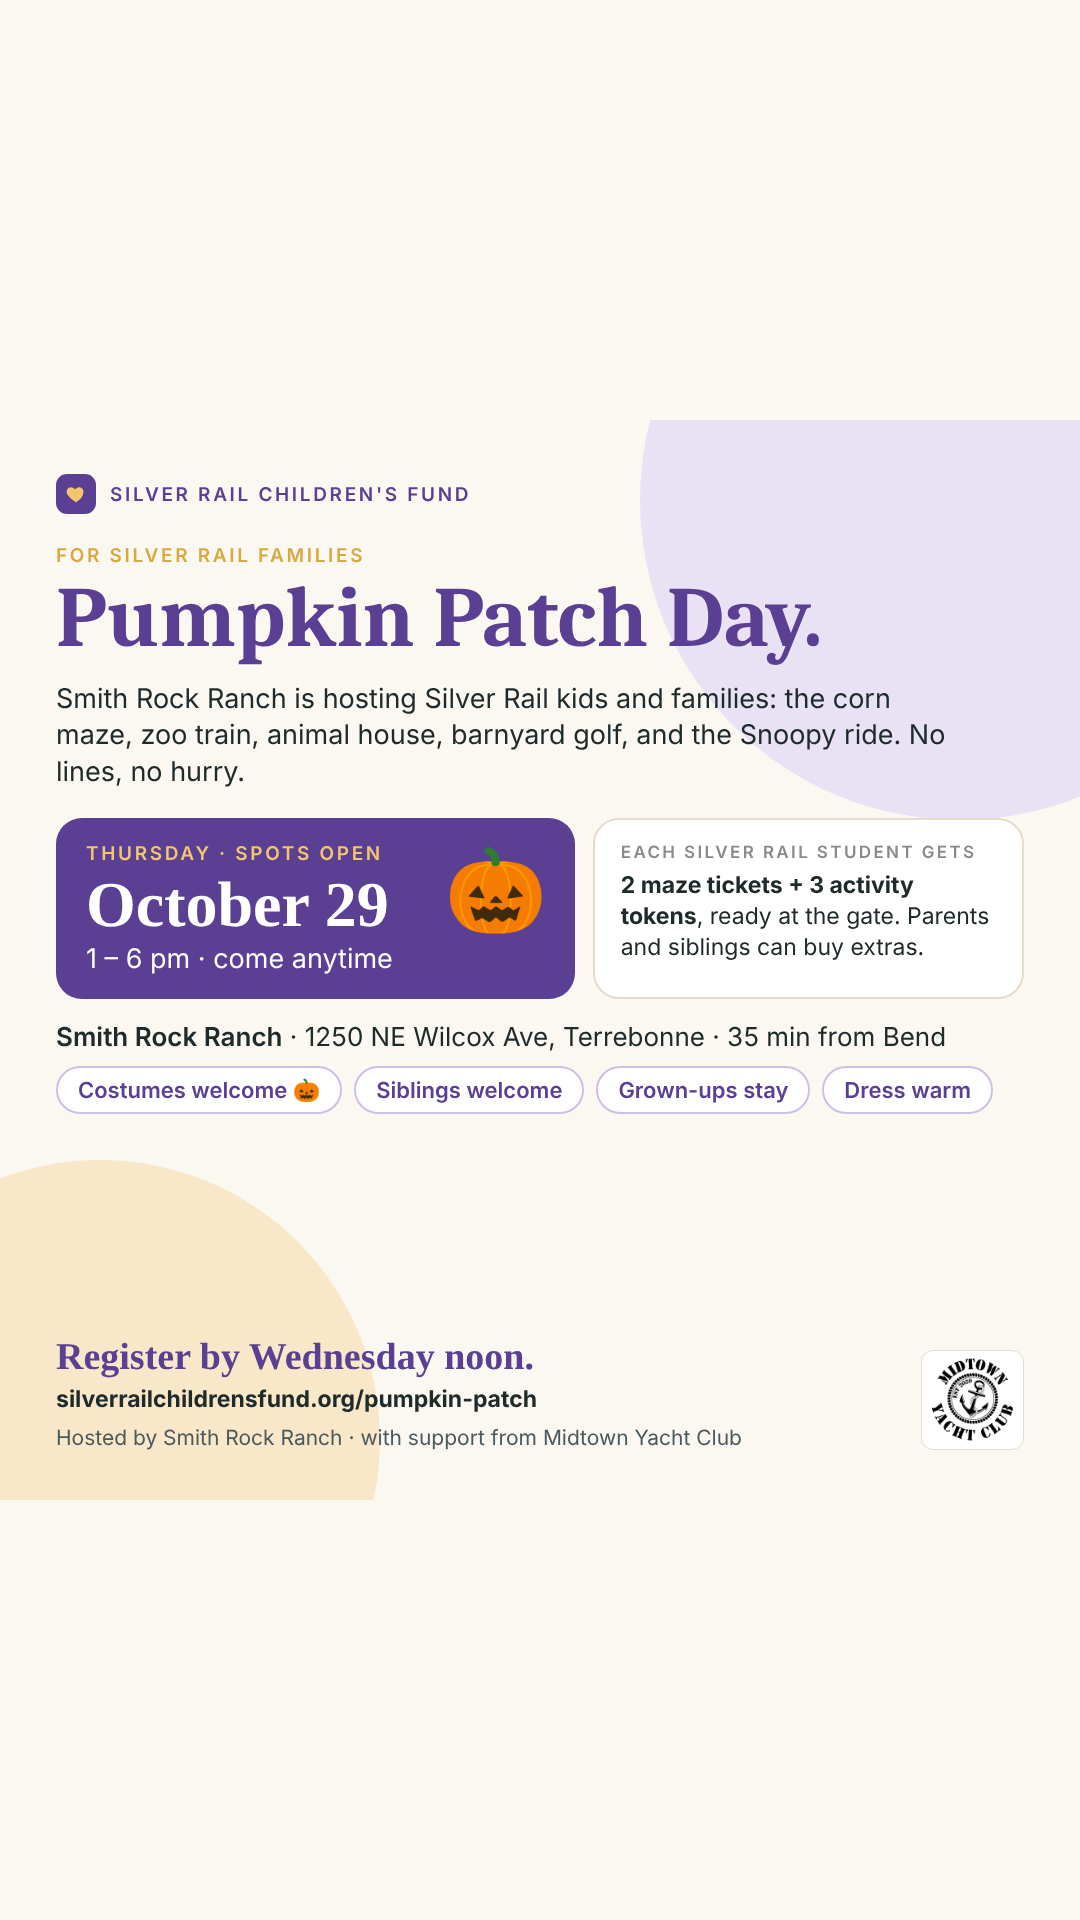
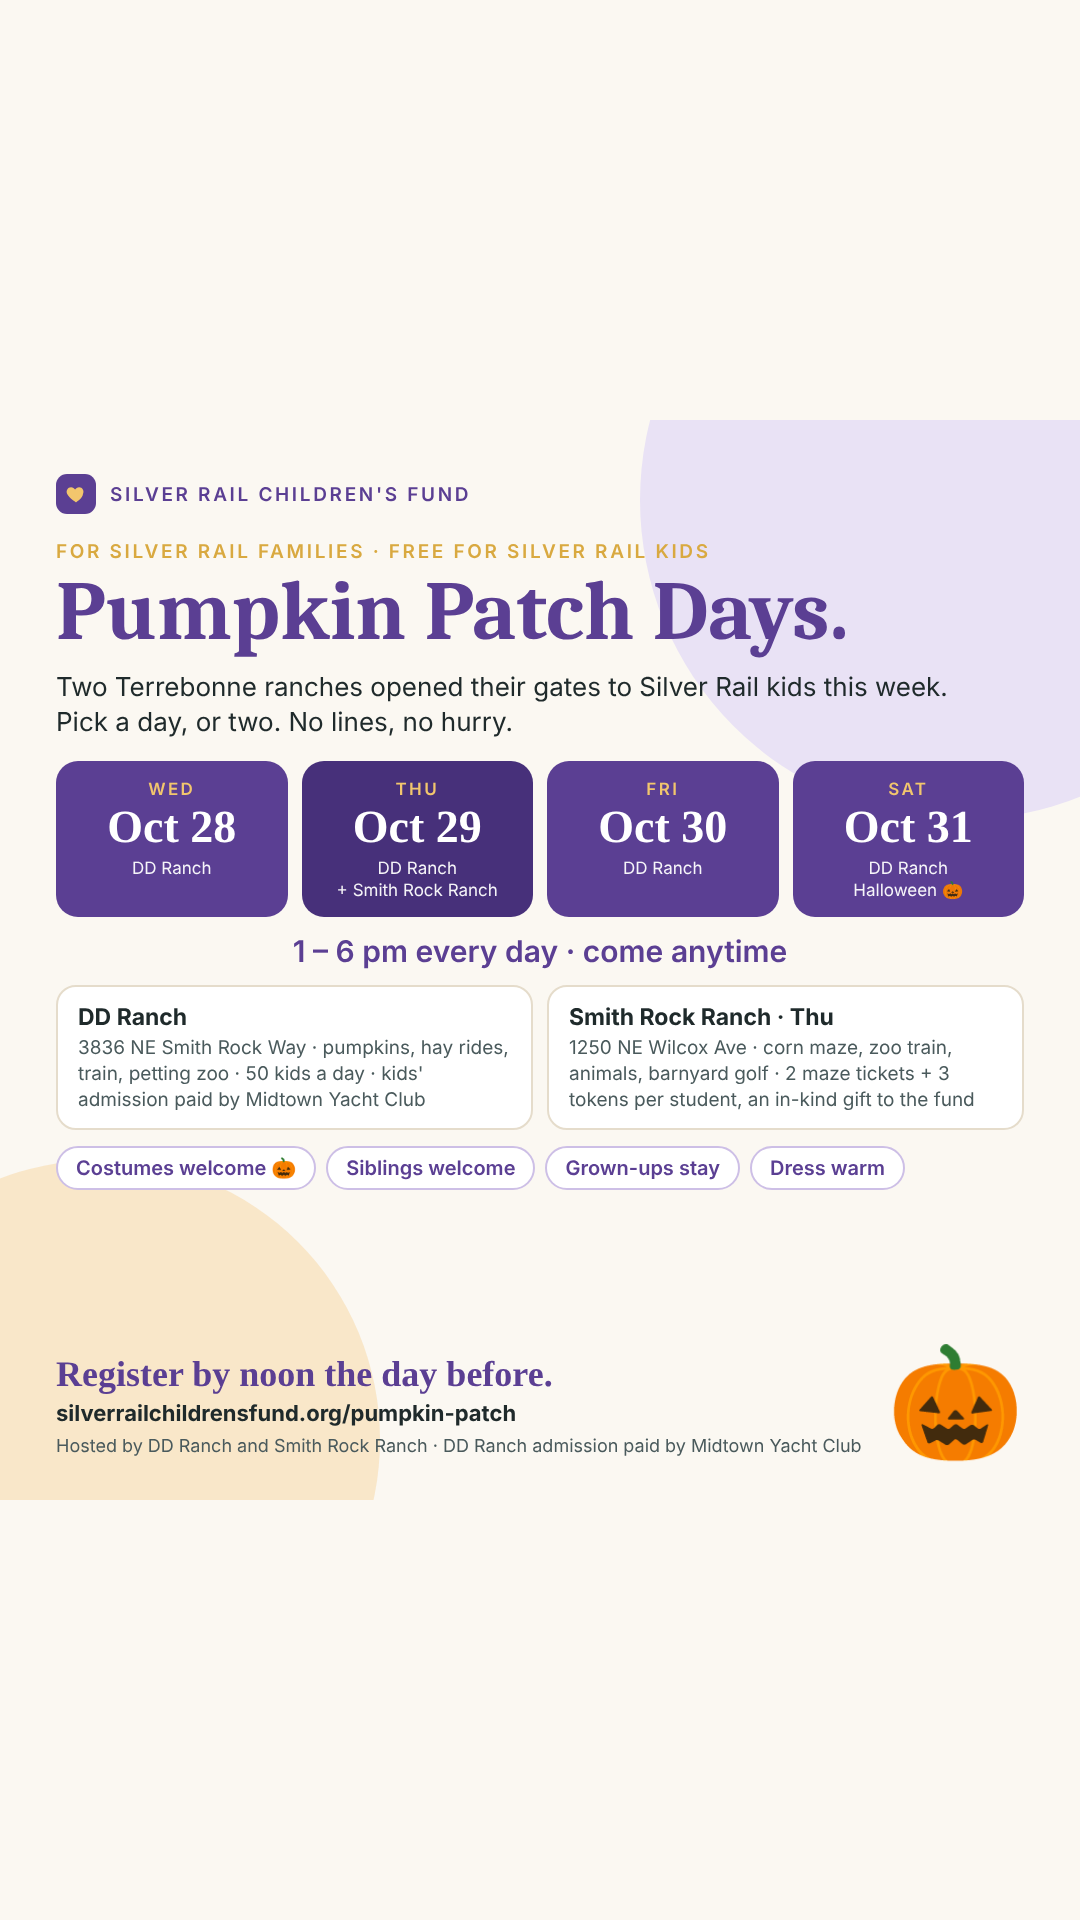
Pumpkin Patch Days: DD Ranch Wed–Sat (MYC) + Smith Rock Ranch Thu (in-kind), 50/day cap
Claude-Session: https://claude.ai/code/session_015iqZ7GukyYKBWLVqzLKjws

diff --git a/pumpkin-patch.html b/pumpkin-patch.html
@@ -3,12 +3,12 @@
 <head>
 <meta charset="utf-8">
 <meta name="viewport" content="width=device-width, initial-scale=1">
-<title>Pumpkin Patch Day — Silver Rail Children's Fund</title>
-<meta name="description" content="Pumpkin Patch Day for Silver Rail families at Smith Rock Ranch, Terrebonne: Thursday, October 29, 1–6 pm. Hosted by Smith Rock Ranch through the Silver Rail Children's Fund. Register your family.">
+<title>Pumpkin Patch Days — Silver Rail Children's Fund</title>
+<meta name="description" content="Pumpkin Patch Days for Silver Rail families: DD Ranch Wednesday–Saturday, Oct 28–31, and Smith Rock Ranch Thursday, Oct 29, 1–6 pm each day. Free for Silver Rail kids. Register your family.">
 <meta name="theme-color" content="#5B3F93">
 <link rel="canonical" href="https://silverrailchildrensfund.org/pumpkin-patch.html">
-<meta property="og:title" content="Pumpkin Patch Day — Silver Rail Children's Fund">
-<meta property="og:description" content="Thursday, October 29, 1–6 pm at Smith Rock Ranch. Maze, zoo train, animals, barnyard golf. Hosted for Silver Rail families through the fund. Register your family.">
+<meta property="og:title" content="Pumpkin Patch Days — Silver Rail Children's Fund">
+<meta property="og:description" content="Two ranches, four days, 1–6 pm. DD Ranch Wed–Sat Oct 28–31 and Smith Rock Ranch Thu Oct 29. Free for Silver Rail kids. Register your family.">
 <meta property="og:type" content="website">
 <meta property="og:url" content="https://silverrailchildrensfund.org/pumpkin-patch.html">
 <meta property="og:image" content="https://silverrailchildrensfund.org/assets/pumpkin-patch-share.png">
@@ -173,37 +173,50 @@ footer.sf .sf-legal a{color:var(--ink-2)}
 <main>
 <div class="hero">
   <div class="wrap">
-    <div class="eyebrow">Pumpkin Patch Day · Smith Rock Ranch</div>
-    <h1>An afternoon at the patch, for Silver Rail families.</h1>
-    <p class="lede">Smith Rock Ranch is hosting Silver Rail kids and their families on <b>Thursday, October 29, from 1 pm to 6 pm</b>. The corn maze, the zoo train, the animal house, barnyard golf, the Snoopy ride, and room to run around without lines. Each Silver Rail student gets two maze tickets and three activity tokens from the ranch when you check in.</p>
-    <p class="lede" style="font-size:1.05rem">Why a pumpkin patch? Because for a child who was at Silver Rail on October 15, an ordinary fall afternoon with classmates is not a break from recovery. It is recovery. This is the fund's very first outing, and it's the one we set out to make happen on day one.</p>
+    <div class="eyebrow">Pumpkin Patch Days · Terrebonne</div>
+    <h1>Four afternoons at the patch, for Silver Rail families.</h1>
+    <p class="lede">Two Terrebonne ranches have opened their gates to Silver Rail kids this week, <b>1 pm to 6 pm each day</b>. <b>DD Ranch</b> is hosting Wednesday through Saturday, October 28–31, with Silver Rail kids' admission paid by Midtown Yacht Club. <b>Smith Rock Ranch</b> is hosting Thursday, October 29, as an in-kind donation to the fund. Pick a day. Pick two. Come as you are.</p>
+    <p class="lede" style="font-size:1.05rem">Why a pumpkin patch? Because for a child who was at Silver Rail on October 15, an ordinary fall afternoon with classmates is not a break from recovery. It is recovery. These are the fund's first outings, and they're the ones we set out to make happen on day one.</p>
     <a class="btn" href="#register">Register your family</a>
   </div>
 </div>
 
 <section id="when">
   <div class="wrap">
-    <h2>Thursday, October 29.</h2>
-    <div class="sess">
-      <div class="card open"><span class="tag go">Open</span><b>Thursday, Oct 29</b><p>1:00 – 6:00 pm · come any time, stay as long as you like<br>Smith Rock Ranch<br>1250 NE Wilcox Ave, Terrebonne, OR 97760<br>About 35 minutes north of Bend via Hwy 97</p></div>
-      <div class="card"><b>What's included</b><p>Per Silver Rail student: 2 maze tickets + 3 activity tokens, provided by Smith Rock Ranch.<br>Parents and siblings can buy extra passes and tokens at the gate or <a href="https://www.smithrockranch.com/" target="_blank" rel="noopener">online ahead of time</a>.</p></div>
+    <h2>Pick your day.</h2>
+    <p class="note" style="max-width:720px">DD Ranch days are capped at <b>50 Silver Rail children per day</b> so the ranch can keep it unhurried; when a day fills, it'll show here as full. Smith Rock Ranch on Thursday has no cap. You're welcome to register for more than one day.</p>
+    <div class="sess" style="max-width:1140px;grid-template-columns:repeat(auto-fit,minmax(240px,1fr))">
+      <div class="card open"><span class="tag go">Open</span><b>Wed, Oct 28</b><p>1:00 – 6:00 pm<br>DD Ranch<br>3836 NE Smith Rock Way, Terrebonne<br>Silver Rail kids free · 50 spots</p></div>
+      <div class="card open"><span class="tag go">Open</span><b>Thu, Oct 29</b><p>1:00 – 6:00 pm<br>DD Ranch<br>3836 NE Smith Rock Way, Terrebonne<br>Silver Rail kids free · 50 spots</p></div>
+      <div class="card open"><span class="tag go">Open</span><b>Thu, Oct 29</b><p>1:00 – 6:00 pm<br>Smith Rock Ranch<br>1250 NE Wilcox Ave, Terrebonne<br>2 maze tickets + 3 tokens per student</p></div>
+      <div class="card open"><span class="tag go">Open</span><b>Fri, Oct 30</b><p>1:00 – 6:00 pm<br>DD Ranch<br>3836 NE Smith Rock Way, Terrebonne<br>Silver Rail kids free · 50 spots</p></div>
+      <div class="card open"><span class="tag go">Open</span><b>Sat, Oct 31</b><p>1:00 – 6:00 pm · Halloween<br>DD Ranch<br>3836 NE Smith Rock Way, Terrebonne<br>Silver Rail kids free · 50 spots</p></div>
     </div>
-    <div class="kids" style="margin-top:22px">
-      <strong>What's open that day</strong>
-      <ul>
-        <li>The corn maze (this year's theme: The Flintstones), the zoo train, the animal house, barnyard golf, and the Snoopy ride.</li>
-        <li>Not running that day: the pumpkin cannons, horse-drawn hayride, pony rides, and shooting gallery. The ranch is short-staffed this week and wanted us to know up front.</li>
-        <li>The ranch is open to the public that afternoon too, but it's a weekday; they don't expect crowds.</li>
-        <li>Costumes welcome. Dress warm; late October in Terrebonne is cold by 5.</li>
-        <li>No photos of children without a parent's say-so. No press.</li>
-      </ul>
+    <div class="keep" style="margin-top:26px;max-width:1140px">
+      <div>
+        <h3>DD Ranch · Wed–Sat</h3>
+        <ul>
+          <li>Pumpkin patch, hay rides, train rides, petting zoo, pony rides, and the rest of the ranch's fall setup. Food trucks on site most days.</li>
+          <li>Silver Rail kids' admission is paid by <a href="https://www.midtownyachtclub.com/" target="_blank" rel="noopener">Midtown Yacht Club</a>, who pledged the fund's first outing before the fund had a bank account.</li>
+          <li>Parents and siblings: we're working out passes with the ranch and will email registered families before Wednesday.</li>
+          <li>About 35 minutes north of Bend via Hwy 97. Open to the public too; weekday afternoons are quiet.</li>
+        </ul>
+      </div>
+      <div>
+        <h3>Smith Rock Ranch · Thursday only</h3>
+        <ul>
+          <li>The corn maze (The Flintstones this year), the zoo train, the animal house, barnyard golf, and the Snoopy ride. Not running Thursday: pumpkin cannons, hayride, pony rides, shooting gallery.</li>
+          <li>Each Silver Rail student gets two maze tickets and three activity tokens from the ranch, an in-kind donation to the fund. Parents and siblings can buy extras at the gate or online.</li>
+          <li>The ranch said yes in the middle of its busiest week and a family emergency of its own. We won't forget it.</li>
+        </ul>
+      </div>
     </div>
-    <div class="kids" style="margin-top:16px;background:#efe9fb;border:1px solid var(--lav)">
-      <strong>How check-in works</strong>
+    <div class="kids" style="margin-top:22px;background:#efe9fb;border:1px solid var(--lav)">
+      <strong>Every day, at both ranches</strong>
       <ul>
-        <li>A Silver Rail parent volunteer will be at the entrance from 1 pm with our registration list. Give your name, get your tickets and tokens, head in.</li>
-        <li>We give the ranch a headcount, not names. Your family's details stay in the fund's own Workspace, like everything else you've shared with us.</li>
-        <li>A parent or guardian stays with their child the whole time. The fund's volunteers check you in and say hello; they don't supervise children.</li>
+        <li>A Silver Rail parent volunteer is at the gate with our registration list. Give your name, get checked in, head in. We give the ranches a headcount, not names.</li>
+        <li>A parent or guardian stays with their child the whole time. Our volunteers check you in and say hello; they don't supervise children.</li>
+        <li>Costumes welcome. Dress warm; Terrebonne is cold by 5. No photos of children without a parent's say-so. No press.</li>
       </ul>
     </div>
   </div>
@@ -212,31 +225,30 @@ footer.sf .sf-legal a{color:var(--ink-2)}
 <section id="register">
   <div class="wrap">
     <div class="eyebrow">Register</div>
-    <h2>Tell us you're coming.</h2>
-    <p class="note" style="max-width:640px">One form per family, by <b>Wednesday, October 28 at noon</b>, so we can get the ranch a headcount and have your tickets ready at the gate. Your answers go to the fund's own private Google Workspace and nowhere else. Not registered with the fund yet? That's fine; this form is all you need for Thursday.</p>
+    <h2>Tell us which day.</h2>
+    <p class="note" style="max-width:640px">One form per family. Register by <b>noon the day before</b> so we can give the ranch a headcount and have you on the gate list. DD Ranch days close at 50 children. Your answers go to the fund's own private Google Workspace and nowhere else. Not registered with the fund yet? That's fine; this form is all you need this week.</p>
     <div class="formbox" style="max-width:720px" id="formbox">
       <!--FORM-->
       <div style="padding:28px">
-        <p style="margin:0 0 8px"><b>The registration form is on its way up.</b> Until it's live, email <a href="mailto:hello@silverrailchildrensfund.org?subject=Pumpkin%20Patch%20Day%20%E2%80%94%20Oct%2029">hello@silverrailchildrensfund.org</a> with your name, phone, your Silver Rail child's first name, and how many kids and adults are coming. We'll confirm by email.</p>
+        <p style="margin:0 0 8px"><b>The registration form is on its way up.</b> Until it's live, email <a href="mailto:hello@silverrailchildrensfund.org?subject=Pumpkin%20Patch%20Days">hello@silverrailchildrensfund.org</a> with your name, phone, your Silver Rail child's first name, which day(s), and how many kids and adults are coming. We'll confirm by email.</p>
       </div>
       <!--/FORM-->
     </div>
-    <p class="note" style="margin-top:12px">If the form doesn't load, email hello@silverrailchildrensfund.org with your name, phone, your Silver Rail child's first name, and how many kids and adults are coming.</p>
+    <p class="note" style="margin-top:12px">If the form doesn't load, email hello@silverrailchildrensfund.org with your name, phone, your Silver Rail child's first name, which day, and how many kids and adults are coming.</p>
   </div>
 </section>
 
 <section id="thanks">
   <div class="wrap">
     <div class="eyebrow">Thank you</div>
-    <h2>Hosted by Smith Rock Ranch, for our children now.</h2>
+    <h2>Two ranches and a bar in Midtown, for our children now.</h2>
     <div class="thanks">
       <div class="logos">
-        <div class="d" style="width:150px"><a href="https://www.smithrockranch.com/" target="_blank" rel="noopener"><img src="assets/smith-rock-ranch.png" alt="Smith Rock Ranch" onerror="this.parentNode.parentNode.style.display='none'"></a></div>
         <div class="d" style="width:130px"><a href="https://www.midtownyachtclub.com/" target="_blank" rel="noopener"><img src="midtown-yacht-club.png" alt="Midtown Yacht Club"></a></div>
       </div>
       <div>
-        <h3>Smith Rock Ranch &amp; Midtown Yacht Club</h3>
-        <p><a href="https://www.smithrockranch.com/" target="_blank" rel="noopener">Smith Rock Ranch</a> said yes within a day, in the middle of their busiest week of the year and with their own family emergency to manage, and is providing every Silver Rail student's maze tickets and tokens. <a href="https://www.midtownyachtclub.com/" target="_blank" rel="noopener">Midtown Yacht Club</a> pledged to pay for the fund's first outing before the fund had a bank account. This is that outing. Thank you both, from every parent on the board.</p>
+        <h3>DD Ranch, Smith Rock Ranch &amp; Midtown Yacht Club</h3>
+        <p><a href="https://www.ddranch.net/" target="_blank" rel="noopener">DD Ranch</a> opened four afternoons to Silver Rail families, and <a href="https://www.midtownyachtclub.com/" target="_blank" rel="noopener">Midtown Yacht Club</a> is paying for every Silver Rail kid who walks through its gate. <a href="https://www.smithrockranch.com/" target="_blank" rel="noopener">Smith Rock Ranch</a> is hosting Thursday and giving every student's maze tickets and tokens as an in-kind donation to the fund. Thank you, all three, from every parent on the board.</p>
       </div>
     </div>
   </div>
@@ -268,7 +280,7 @@ footer.sf .sf-legal a{color:var(--ink-2)}
       <div>
         <strong>For families</strong>
         <a href="parents.html">Register your child</a>
-        <a href="pumpkin-patch.html">Pumpkin Patch Day at Smith Rock Ranch</a>
+        <a href="pumpkin-patch.html">Pumpkin Patch Days</a>
         <a href="pizza-day.html">Pizza Day at Deschutes</a>
         <a href="oregon-crime-victims-compensation.html">Crime Victims' Compensation guide</a>
         <a href="kaylub.html">Messages for Kaylub</a>

diff --git a/index.html b/index.html
@@ -398,7 +398,7 @@ footer.sf .sf-legal a{color:var(--ink-2)}
           <li>Oct 22 — Silver Rail Kids Fun Fund launched on GoFundMe</li>
           <li>Oct 23 — Silver Rail Children's Fund incorporated in Oregon; Tax ID issued</li>
           <li>Oct 25 — <a href="https://ktvz.com/central-oregon-strong/2026/10/25/silver-rail-parents-launch-nonprofit-offering-support-for-students-who-survived-tragedy/" target="_blank" rel="noopener">KTVZ: Silver Rail parents launch nonprofit offering support for students who survived tragedy</a></li>
-          <li>Oct 29 (open) — <a href="pumpkin-patch.html">Pumpkin Patch Day at Smith Rock Ranch</a>, 1–6 pm, hosted by Smith Rock Ranch with support from Midtown Yacht Club</li>
+          <li>Oct 28–31 (open) — <a href="pumpkin-patch.html">Pumpkin Patch Days</a>: DD Ranch Wed–Sat (paid by Midtown Yacht Club) and Smith Rock Ranch Thu (in-kind), 1–6 pm</li>
           <li>Oct 30 (full — waitlist) &amp; Nov 4 (open) — <a href="pizza-day.html">Pizza Day at Deschutes Brewery</a>, an in-kind donation from Deschutes Brewery and Whimsy with Purpose</li>
           <li>Next — bylaws signed and posted; bank account; DOJ registration</li>
         </ul>
